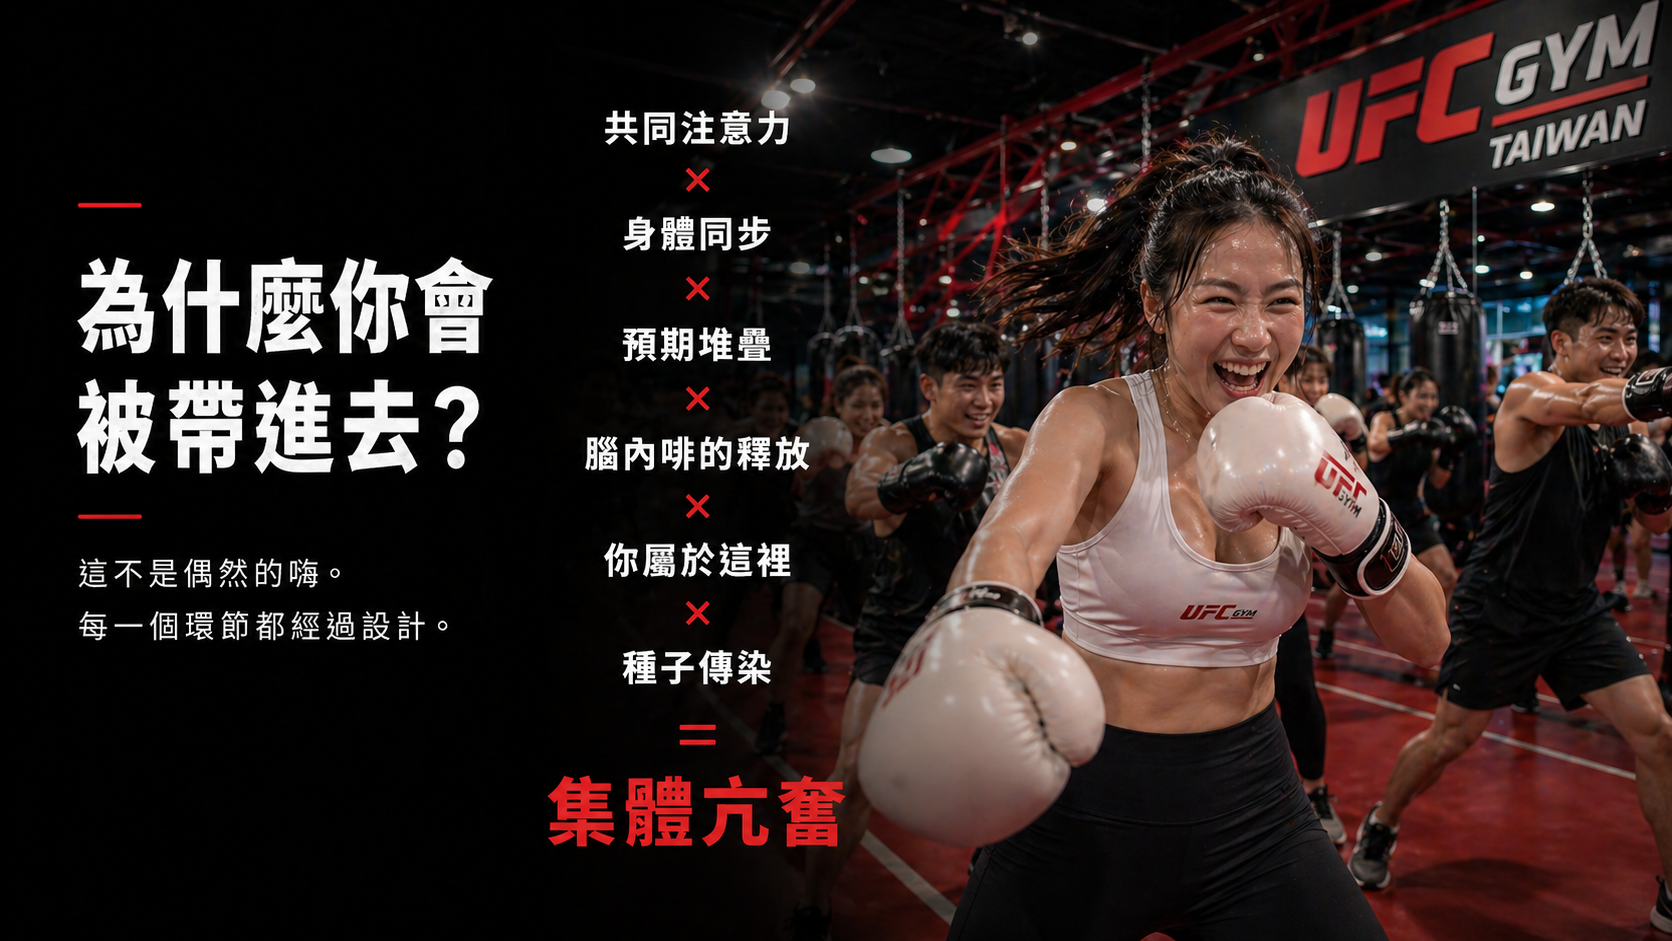
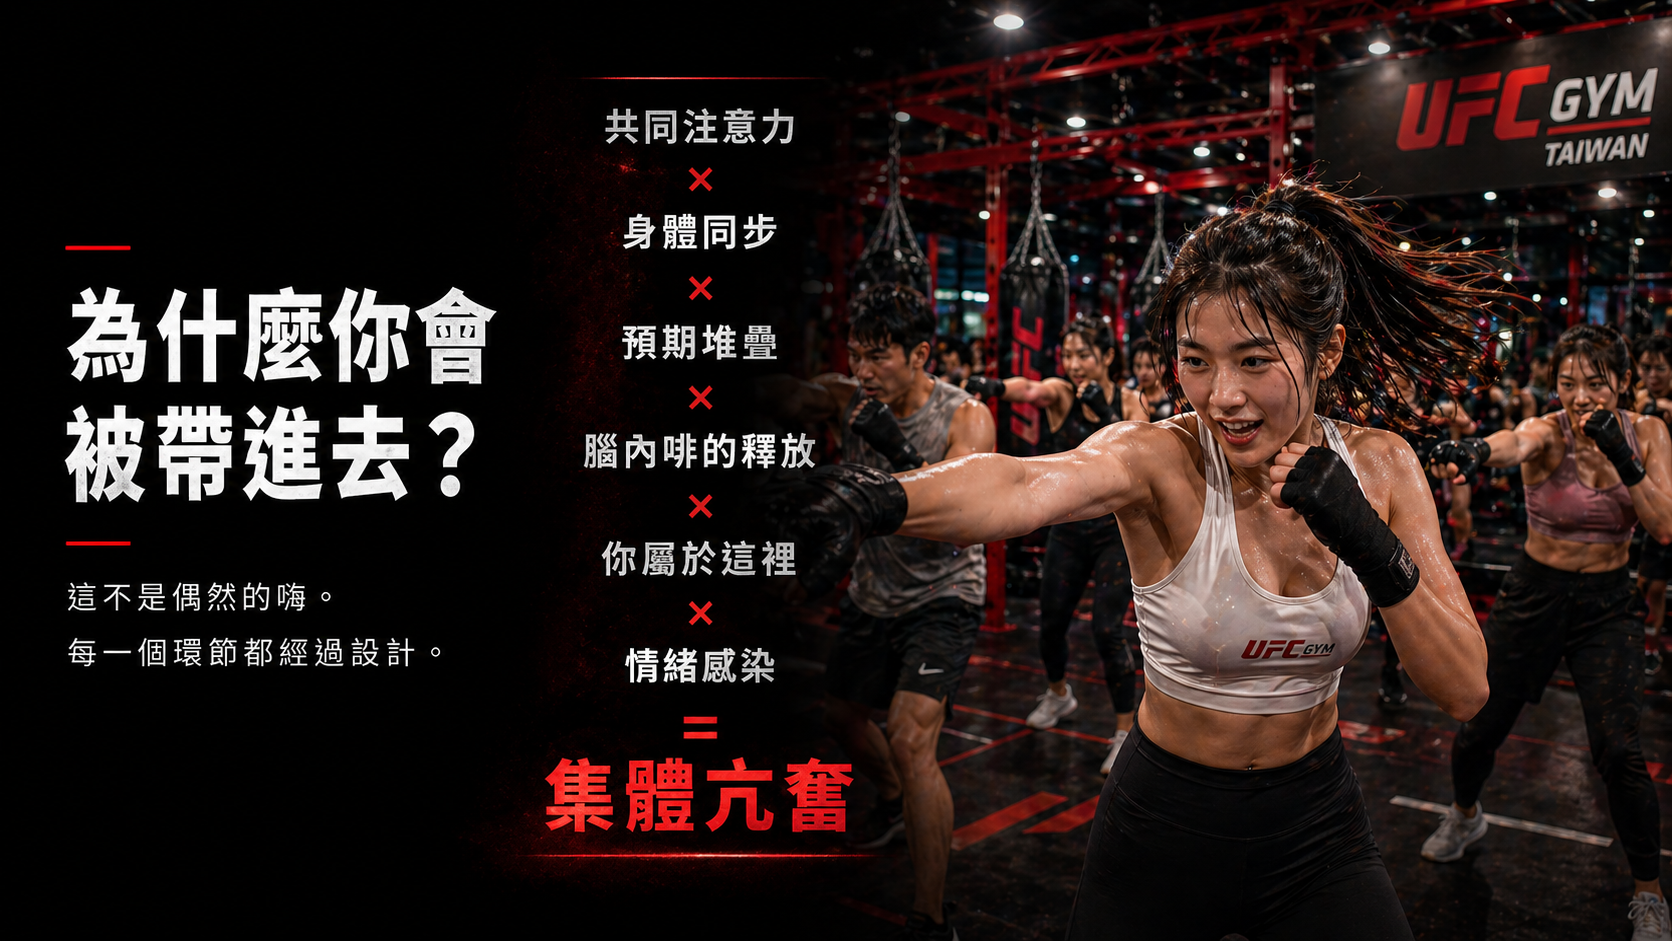
update

diff --git a/src/data/landingContent.ts b/src/data/landingContent.ts
@@ -137,9 +137,9 @@ export const formulaItems: FormulaItem[] = [
   },
   {
     id: 'f-seed',
-    term: '種子傳染',
+    term: '情緒感染',
     description:
-      '當某個人因為某件事而大笑，身邊的人也會跟著笑，你也會跟著大笑。',
+      '當一個人的情緒被點燃，周圍的人也會被帶動，整個群體的狀態會快速擴散。',
   },
 ]
 

diff --git a/src/components/sections/ExperienceFlowSection.tsx b/src/components/sections/ExperienceFlowSection.tsx
@@ -1,5 +1,5 @@
 import { motion } from 'framer-motion'
-import flowOverviewPoster from '../../assets/landing/flow-overview-poster.svg'
+import flowOverviewPoster from '../../assets/landing/flow-overview-poster.png'
 import flowStep1Poster from '../../assets/landing/flow-step-1.png'
 import flowStep2Poster from '../../assets/landing/flow-step-2.png'
 import flowStep3Poster from '../../assets/landing/flow-step-3.png'